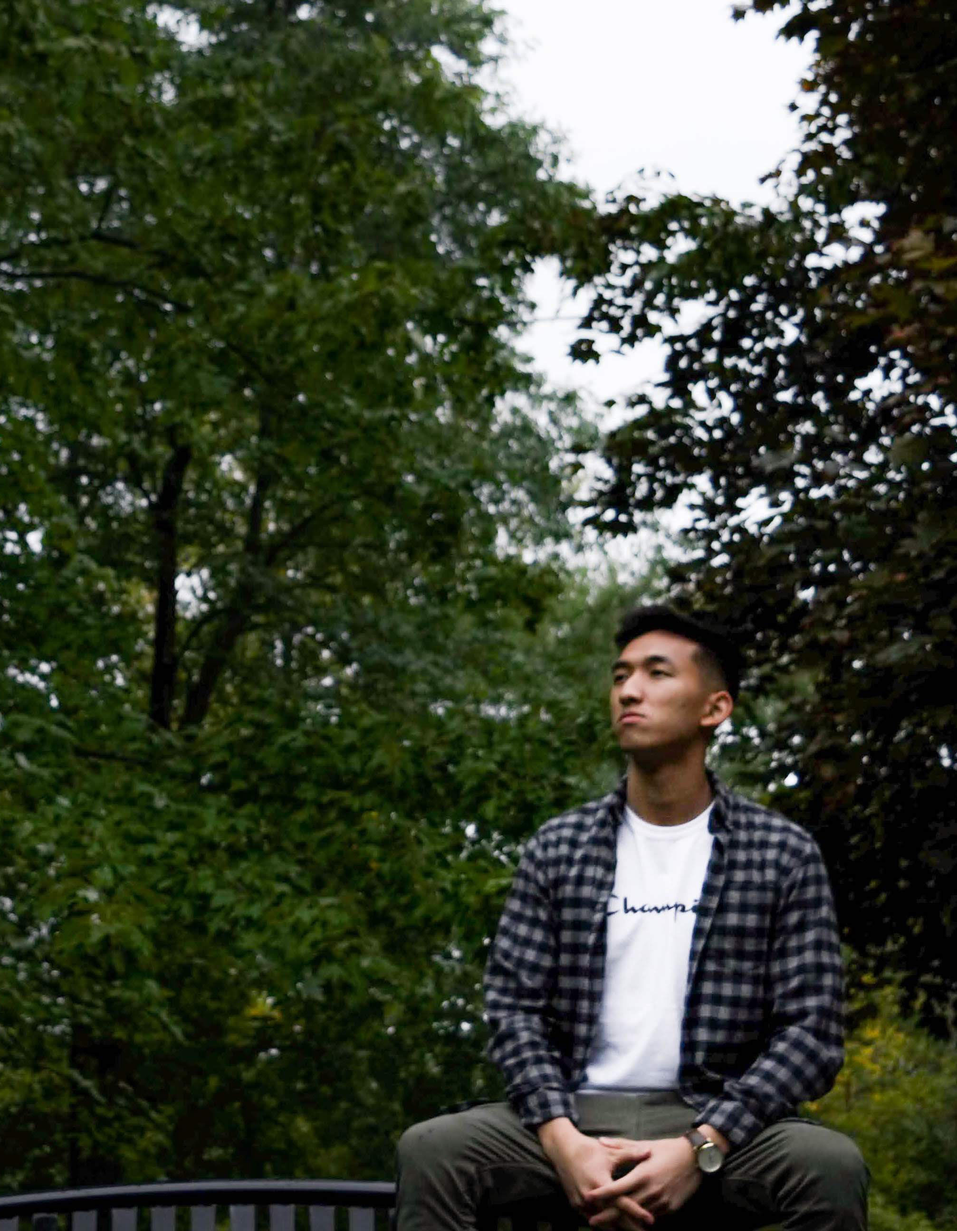
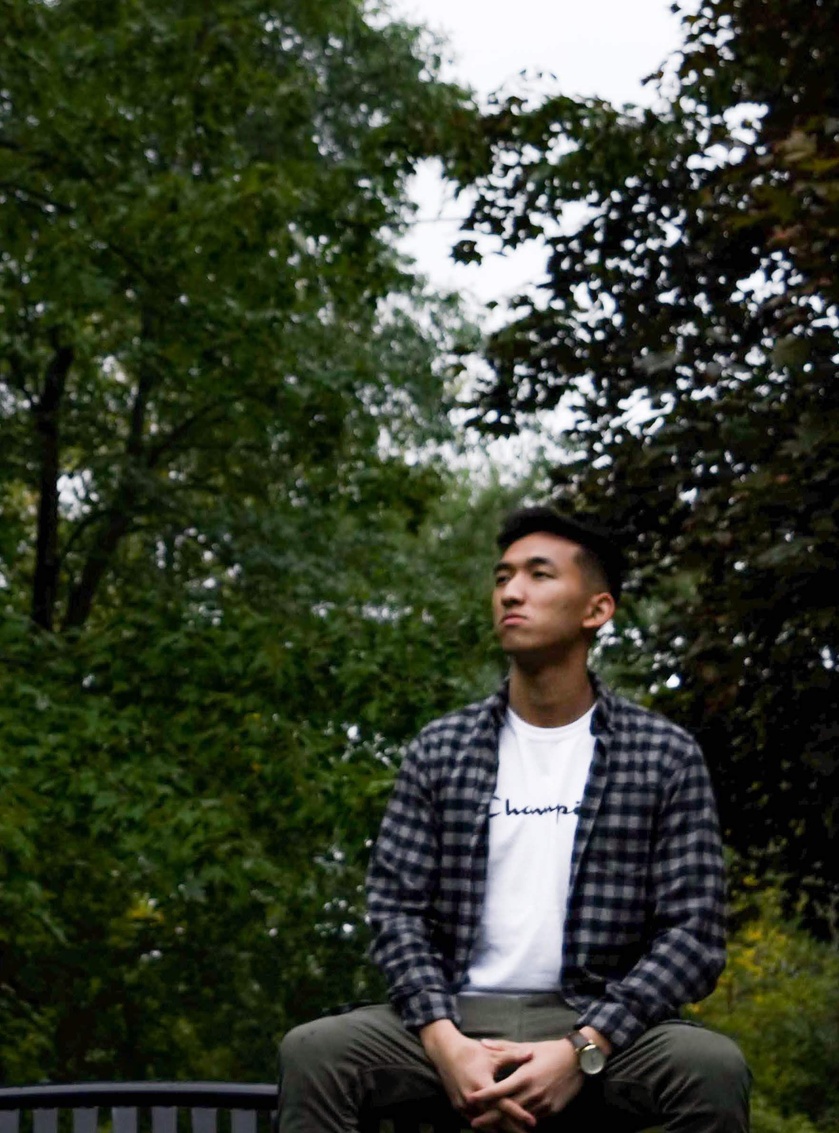
resize images and preload on open

diff --git a/css/custom.css b/css/custom.css
@@ -1,3 +1,8 @@
+body::after{
+    position:absolute; width:0; height:0; overflow:hidden; z-index:-1;
+    content:url(../assets/pictures/portrait-desktop.jpg) url(../assets/pictures/portrait-transition1470.jpg) url(../assets/pictures/portrait-transition1320.jpg) url(../assets/pictures/portrait-transition1270.jpg) url(../assets/pictures/portrait-transition1110.jpg) url(../assets/pictures/portrait-transition1010.jpg) url(../assets/pictures/portrait-transition768.jpg) url(../assets/pictures/portrait-transition600.jpg) url(../assets/pictures/portrait-mobile.jpg);
+}
+
 html, body, .main {
     height: 100%;
 }
@@ -116,6 +121,15 @@ a:active {
 }
 
 /* Media Queries  */
+@media (max-width: 1470px) { 
+    .portrait-image {
+        background-image: url(../assets/pictures/portrait-transition1470.jpg);
+        height: 400px;
+        width: 100%;
+        background-size: cover;
+    }
+}
+
 @media (max-width: 1320px) { 
     .portrait-image {
         background-image: url(../assets/pictures/portrait-transition1320.jpg);
@@ -123,22 +137,23 @@ a:active {
         width: 100%;
         background-size: cover;
     }
-
-    .main-content { 
-        text-align: center;
-    }
 }
 
-@media (max-width: 1140px) { 
+@media (max-width: 1270px) { 
     .portrait-image {
-        background-image: url(../assets/pictures/portrait-transition1140.jpg);
+        background-image: url(../assets/pictures/portrait-transition1270.jpg);
         height: 400px;
         width: 100%;
         background-size: cover;
     }
+}
 
-    .main-content { 
-        text-align: center;
+@media (max-width: 1110px) { 
+    .portrait-image {
+        background-image: url(../assets/pictures/portrait-transition1110.jpg);
+        height: 400px;
+        width: 100%;
+        background-size: cover;
     }
 }
 
@@ -148,10 +163,6 @@ a:active {
         height: 400px;
         width: 100%;
         background-size: cover;
-    }
-
-    .main-content { 
-        text-align: center;
     }
 }
 
